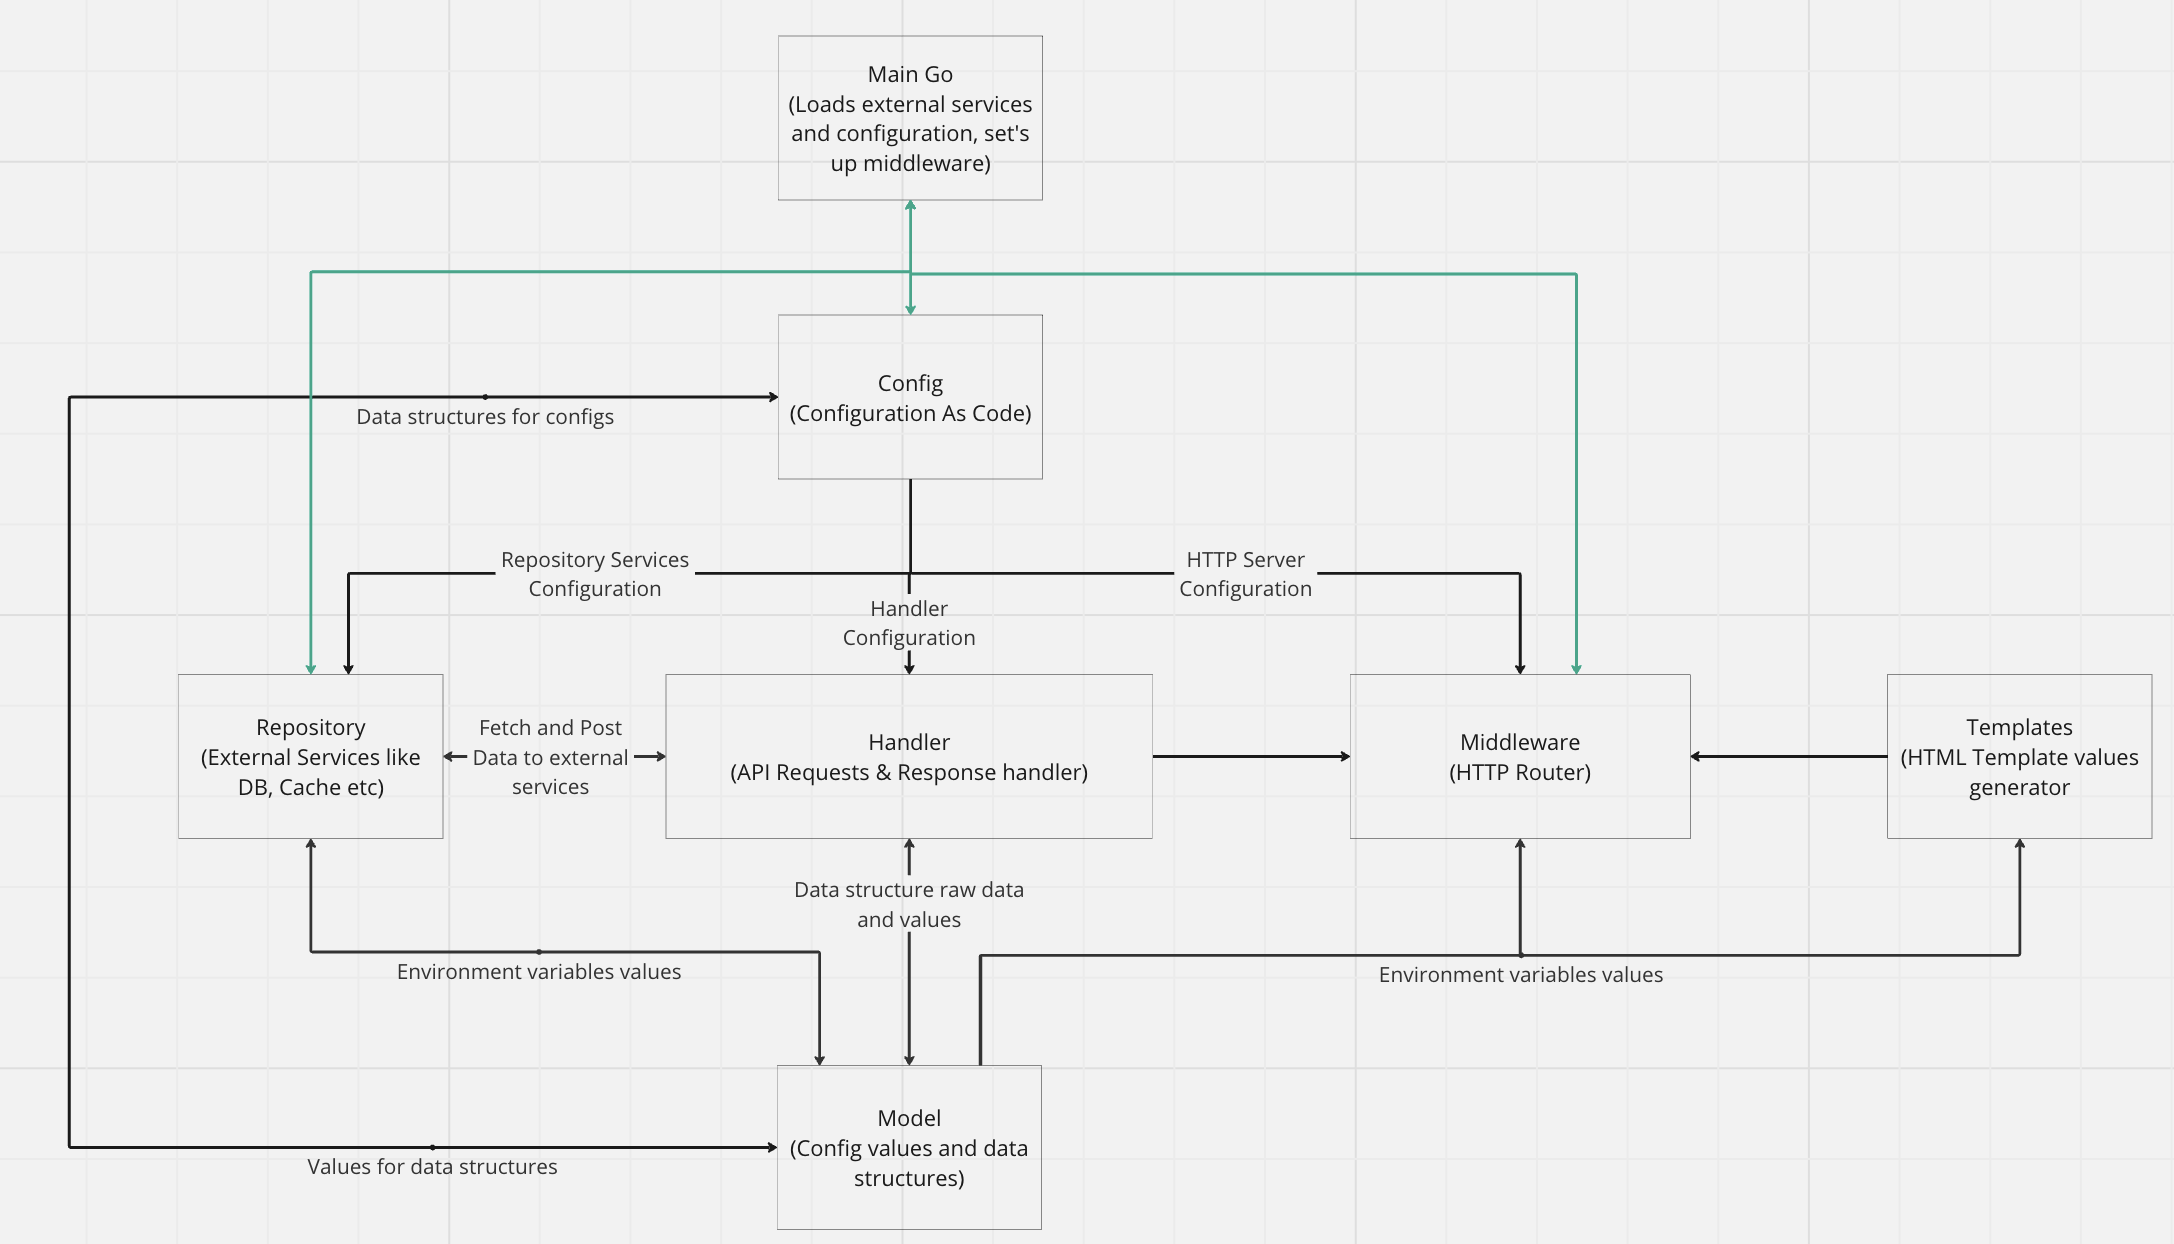
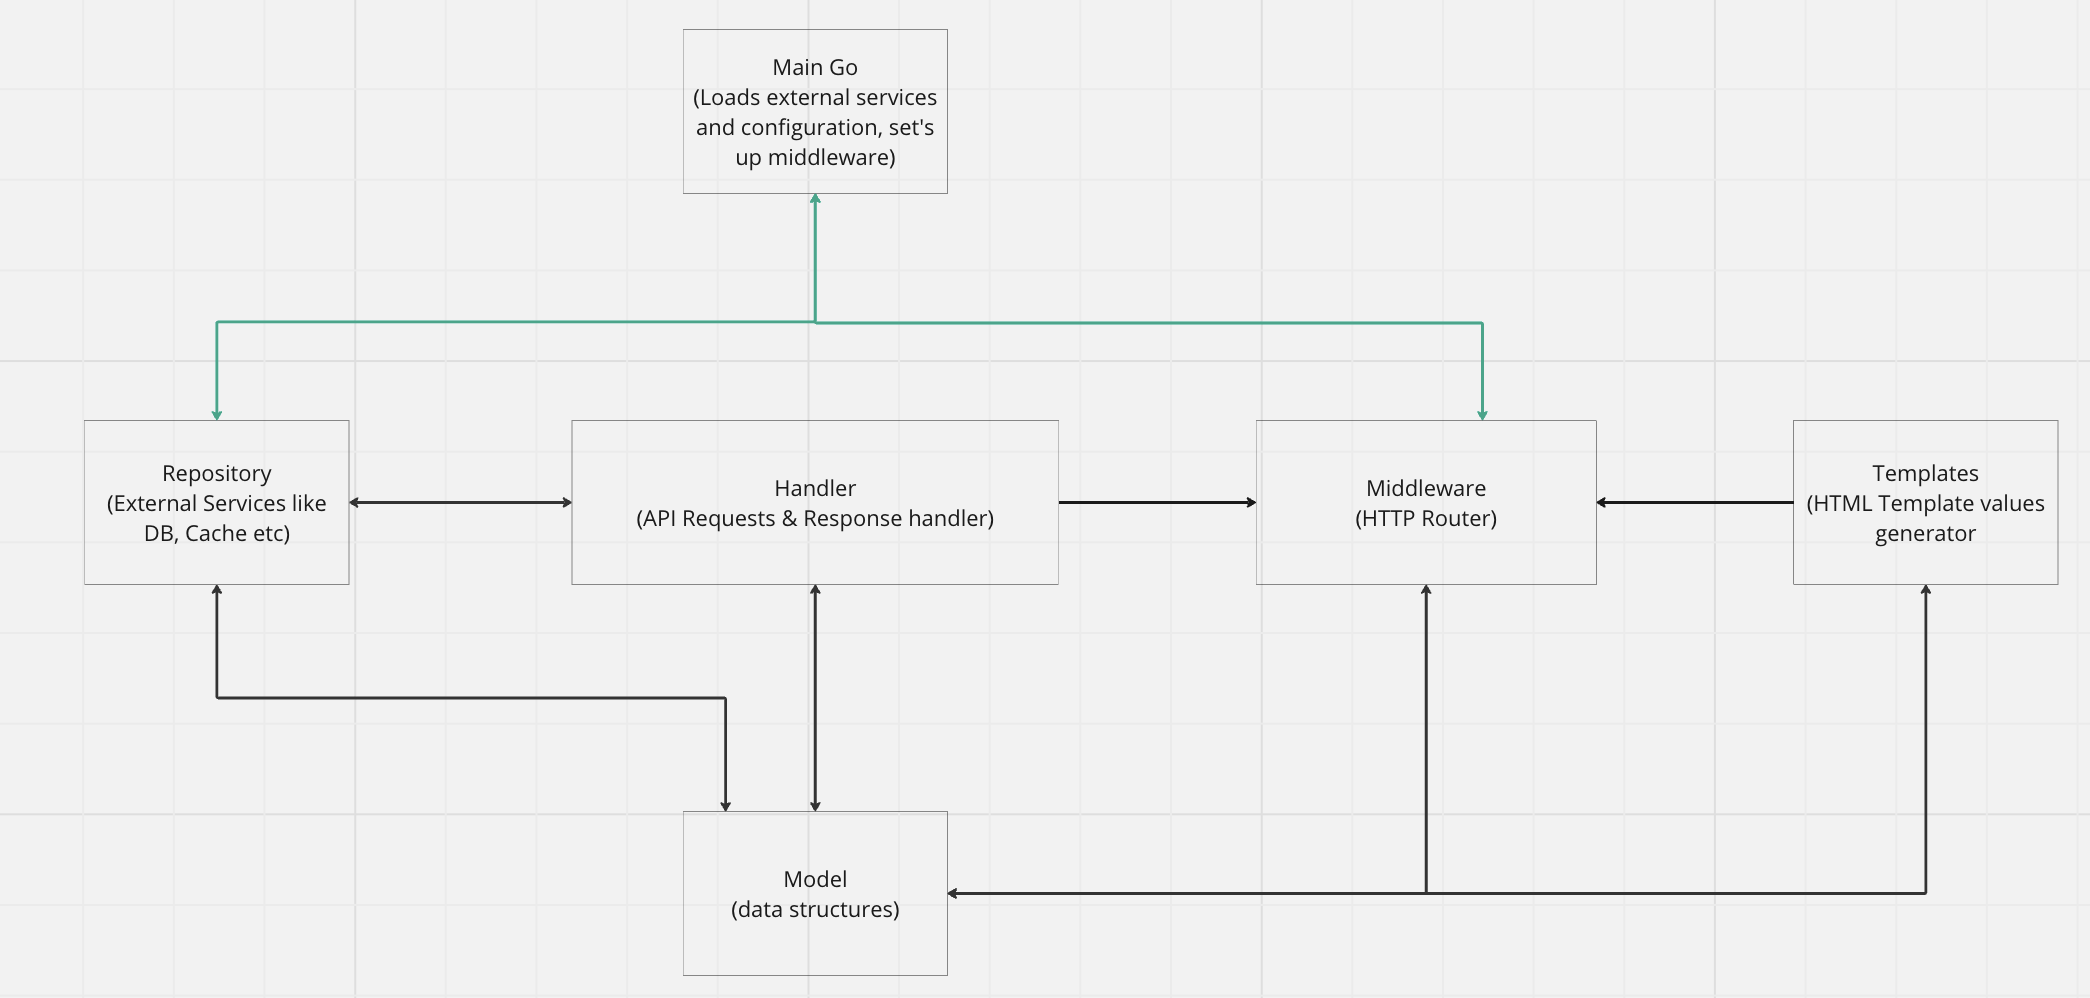
Removed config folder, changes architecture and readme

diff --git a/README.md b/README.md
@@ -34,7 +34,6 @@ Feel free to fork the project and use it as a starting point for your next web a
 
 ## Folder structure
 
-- `config` - Custom component. Configuration as code (e.g. Environment Variables, Gin Gonic Configuration)
 - `docs` - Web Application documentation
 - `handlers` - Controller component (in MVC architecture) folder. Contain the logic for the web application (e.g. API, Error Handling, etc.)
 - `handlers/api` - API request and response handling
@@ -42,7 +41,6 @@ Feel free to fork the project and use it as a starting point for your next web a
 - `middleware` - Middleware layer (in layered architecture) used as HTTP Web Server for API routes, static site serving, etc. 
 - `migrations/` - Database migrations for the web application
 - `model` - Model component (in MVC architecture) folder which contain data structures where data is handled.
-- `model/config` - Configuration data structures
 - `model/templates` - HTML Templates data structures
 - `public` - View component (in MVC architecture) folder used to store static website.
 - `public/errors` - Error pages served by the web application
@@ -57,13 +55,11 @@ The architecture of the web application is layered, with some MVC and custom com
 
 The middleware layer handles routing and serves the static site from the `public` folder. It interacts with the handler layer to process requests from clients and generate appropriate responses.
 
-The repository layer manages connections to external services such as databases and cache servers. It utilizes environment variables from the model component to establish connections with these external services.
+The repository layer manages connections to external services such as databases and cache servers.
 
 The `handler` component plays a crucial role in processing requests received from the middleware layer. It enriches these requests with necessary data for generating responses, using the model component in conjunction with the repository layer. Additionally, it manages errors and sends appropriate responses back to the middleware layer.
 
-The `model` component contains data structures for config, templates, repository, middleware, and handler components.
-
-The `config` component facilitates configuring the application through code. It stores configuration settings for the repository, middleware, and handler components. The config component is combined with the model to establish data structures that promote code reusability across all layers and components.
+The `model` component contain data structures.
 
 The `templates` component generates values for the HTML templates located in `public/views/` folder.
 
